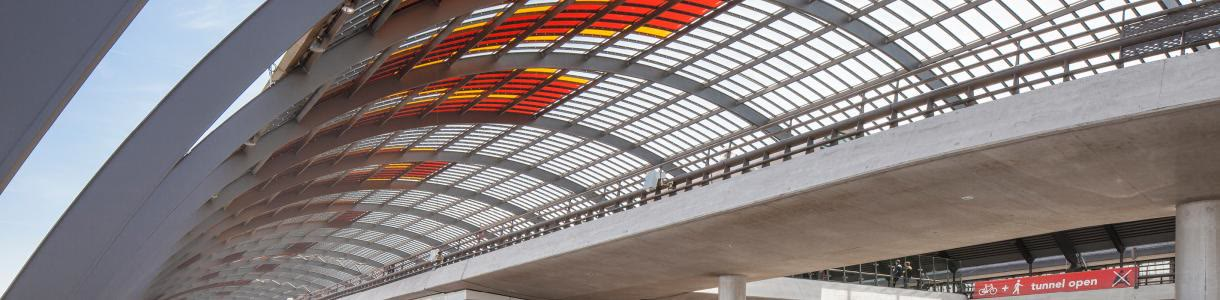
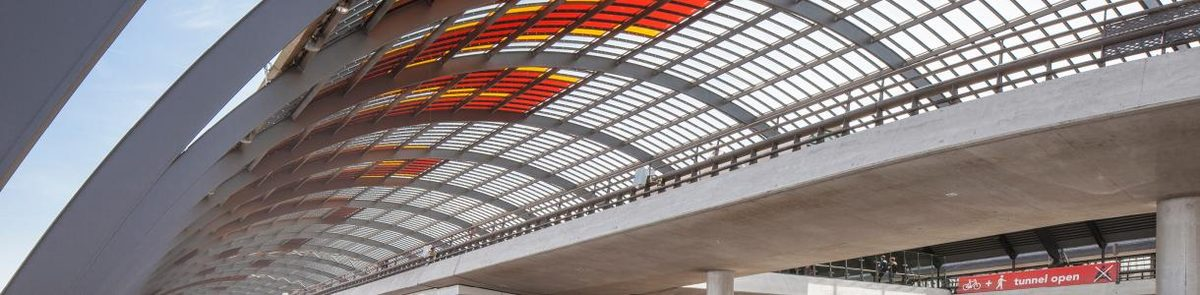
Replace the Group "Protected by Baril" case studies
Swap the case carousel for six new projects sourced from the provided
case page and project videos: Bus terminal Amsterdam CS, Cernavodă bridge
(RO), Craiova stadium (RO), Rozewie lighthouse (PL), Palmiarnia Gdańsk
(PL) and OZAMET (PL). Images extracted from the videos / case page,
cropped to remove baked-in overlays and optimised for web; case captions
localised in all nine languages.

Claude-Session: https://claude.ai/code/session_01FNYg7JHw9b37CTinZrpkFQ

diff --git a/index.html b/index.html
@@ -273,16 +273,28 @@
     </div>
     <div class="cases rv">
       <a class="case">
-        <figure><img loading="lazy" src="assets/img/cases/brug-over-de-noord.jpg" alt="Bridge over the Noord"></figure>
-        <div class="meta"><b>Bridge over the 'Noord'</b><span>Infrastructure · 295 m span</span></div>
+        <figure><img loading="lazy" src="assets/img/cases/busterminal-amsterdam.jpg" alt="Bus terminal Amsterdam CS IJzijde"></figure>
+        <div class="meta"><b>Bus terminal Amsterdam CS</b><span>Infrastructure · the Netherlands</span></div>
       </a>
       <a class="case">
-        <figure><img loading="lazy" src="assets/img/cases/droogdokhal-makkum.jpg" alt="Dry dock hall Makkum"></figure>
-        <div class="meta"><b>Dry dock hall, Makkum</b><span>Steel conservation</span></div>
+        <figure><img loading="lazy" src="assets/img/cases/cernavoda-bridge.jpg" alt="Cernavodă bridges over the Danube, Romania"></figure>
+        <div class="meta"><b>Cernavodă bridge</b><span>Steel bridge · Romania</span></div>
       </a>
       <a class="case">
-        <figure><img loading="lazy" src="assets/img/cases/sint-jan.jpg" alt="Sint-Janskathedraal 's-Hertogenbosch"></figure>
-        <div class="meta"><b>Sint-Janskathedraal</b><span>Restoration · 's-Hertogenbosch</span></div>
+        <figure><img loading="lazy" src="assets/img/cases/craiova-stadium.jpg" alt="Craiova stadium, Romania"></figure>
+        <div class="meta"><b>Craiova stadium</b><span>Stadium roof · Romania</span></div>
+      </a>
+      <a class="case">
+        <figure><img loading="lazy" src="assets/img/cases/rozewie-lighthouse.jpg" alt="Rozewie lighthouse, Poland"></figure>
+        <div class="meta"><b>Rozewie lighthouse</b><span>Lighthouse · Poland</span></div>
+      </a>
+      <a class="case">
+        <figure><img loading="lazy" src="assets/img/cases/palmiarnia-gdansk.jpg" alt="Palmiarnia Gdańsk palm house, Poland"></figure>
+        <div class="meta"><b>Palmiarnia Gdańsk</b><span>Palm house · Poland</span></div>
+      </a>
+      <a class="case">
+        <figure><img loading="lazy" src="assets/img/cases/ozamet.jpg" alt="OZAMET steel equipment with industrial coating, Poland"></figure>
+        <div class="meta"><b>OZAMET</b><span>OEM &amp; metal · Poland</span></div>
       </a>
     </div>
     <p class="cases-note rv">Drag to explore · <a href="barilcoatings/cases/">All cases →</a></p>

diff --git a/js/i18n.js b/js/i18n.js
@@ -437,7 +437,7 @@
       es: 'De la infraestructura nacional a la restauración de monumentos — objetos que nuestros recubrimientos mantienen vivos más tiempo.',
       it: 'Dall\'infrastruttura nazionale al restauro di monumenti — oggetti che i nostri rivestimenti mantengono in vita più a lungo.',
       tr: 'Ulusal altyapıdan anıt restorasyonuna — kaplamalarımızın daha uzun süre hayatta tuttuğu nesneler.' }],
-    ['.case .meta span', {"nl":["Infrastructuur · 295 m overspanning","Staalconservering","Restauratie · 's-Hertogenbosch"],"pl":["Infrastruktura · rozpiętość 295 m","Konserwacja stali","Renowacja · 's-Hertogenbosch"],"ro":["Infrastructură · deschidere 295 m","Conservarea oțelului","Restaurare · 's-Hertogenbosch"],"de":["Infrastruktur · 295 m Spannweite","Stahlkonservierung","Restaurierung · 's-Hertogenbosch"],"fr":["Infrastructure · portée de 295 m","Conservation de l'acier","Restauration · 's-Hertogenbosch"],"es":["Infraestructura · vano de 295 m","Conservación del acero","Restauración · 's-Hertogenbosch"],"it":["Infrastruttura · campata di 295 m","Conservazione dell'acciaio","Restauro · 's-Hertogenbosch"],"tr":["Altyapı · 295 m açıklık","Çelik koruma","Restorasyon · 's-Hertogenbosch"]}],
+    ['.case .meta span', {"nl":["Infrastructuur · Nederland","Stalen brug · Roemenië","Stadiondak · Roemenië","Vuurtoren · Polen","Palmenkas · Polen","OEM & metaal · Polen"],"pl":["Infrastruktura · Holandia","Most stalowy · Rumunia","Dach stadionu · Rumunia","Latarnia morska · Polska","Palmiarnia · Polska","OEM i metal · Polska"],"ro":["Infrastructură · Țările de Jos","Pod metalic · România","Acoperiș de stadion · România","Far · Polonia","Seră de palmieri · Polonia","OEM & metal · Polonia"],"de":["Infrastruktur · Niederlande","Stahlbrücke · Rumänien","Stadiondach · Rumänien","Leuchtturm · Polen","Palmenhaus · Polen","OEM & Metall · Polen"],"fr":["Infrastructure · Pays-Bas","Pont en acier · Roumanie","Toiture de stade · Roumanie","Phare · Pologne","Serre tropicale · Pologne","OEM & métal · Pologne"],"es":["Infraestructura · Países Bajos","Puente de acero · Rumanía","Cubierta de estadio · Rumanía","Faro · Polonia","Invernadero de palmeras · Polonia","OEM y metal · Polonia"],"it":["Infrastruttura · Paesi Bassi","Ponte in acciaio · Romania","Copertura dello stadio · Romania","Faro · Polonia","Serra delle palme · Polonia","OEM & metallo · Polonia"],"tr":["Altyapı · Hollanda","Çelik köprü · Romanya","Stadyum çatısı · Romanya","Deniz feneri · Polonya","Palmiye serası · Polonya","OEM & metal · Polonya"]}],
     ['.cases-note', {
       nl: 'Sleep om te ontdekken · <a href="barilcoatings/cases/">Alle cases →</a>',
       pl: 'Przeciągnij, aby przeglądać · <a href="barilcoatings/cases/">Wszystkie realizacje →</a>',